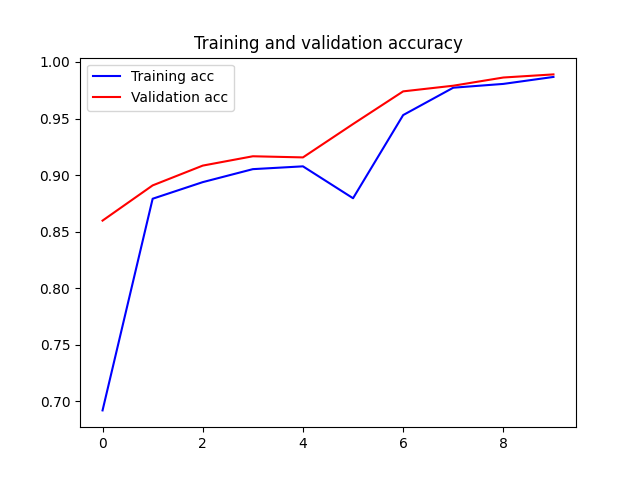
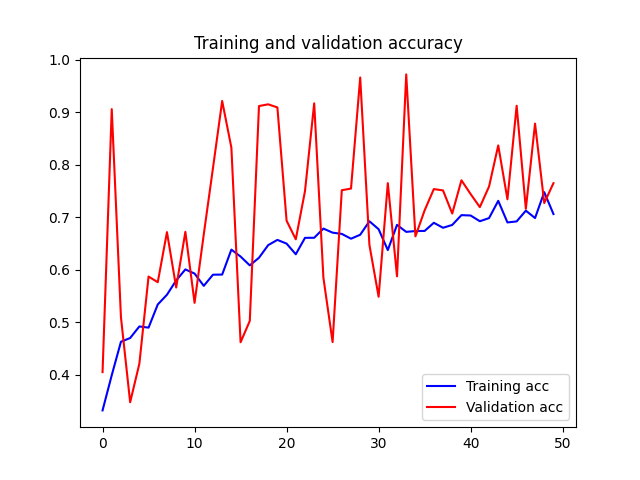
chore: 70% accuracy with adam

diff --git a/DataGenerator.py b/DataGenerator.py
@@ -43,17 +43,20 @@ class MobiFallGenerator(keras.callbacks.Callback):
         self.istrain = istrain
         self.ratio = ratio
         self._train_for = train_for
-        self._target_subject_id = '1'
+        self._target_subject_id = '2'
         self.batch_size = batch_size
 
         if self._train_for == 'acc':
             self._all_data = pd.DataFrame(columns=self.acc_columns)
+            self._test_data = pd.DataFrame(columns=self.acc_columns)
             self.columns = self.acc_columns
         elif self._train_for == 'ori':
             self._all_data = pd.DataFrame(columns=self.ori_columns)
+            self._test_data = pd.DataFrame(columns=self.ori_columns)
             self.columns = self.ori_columns
         elif self._train_for == 'gyro':
             self._all_data = pd.DataFrame(columns=self.gyro_columns)
+            self._test_data = pd.DataFrame(columns=self.gyro_columns)
             self.columns = self.gyro_columns
 
         self.cols_to_train = [column for column in self.columns if column not in self.common_cols]
@@ -73,6 +76,8 @@ class MobiFallGenerator(keras.callbacks.Callback):
             elif SENSOR_CODE == 'gyro' and self._train_for == 'gyro':
                 self.feed_csv(self.gyro_columns, file, ADL, SUBJECT_ID, TRIAL_NO)
 
+        print('DATA LOADED !!')
+
     def label_to_numeric(self, activity):
         return self.label_map[activity]
 
@@ -81,14 +86,20 @@ class MobiFallGenerator(keras.callbacks.Callback):
         df['activity'] = ADL
         df['subject_id'] = SUBJECT_ID
         df['trial_id'] = TRIAL_NO.split('.')[0]
+        # train test split based on ratio
 
-        self._all_data = self._all_data.append(df, ignore_index=True, sort=True)
+        trainig_upto = int(df.shape[0] * (1 - self.ratio)) - 1
+        self._all_data = self._all_data.append(df.iloc[0:trainig_upto], ignore_index=True, sort=True)
+        testing_from = (df.shape[0] - int(df.shape[0] * self.ratio) - 1)
+        self._test_data = self._test_data.append(df.iloc[testing_from:df.shape[0]], ignore_index=True, sort=True)
 
     def get_data_files(self):
         return self._datafiles
 
     def prepare_data(self, activities, main_df, batchsize):
-        target_activity = activities[random.randint(0, len(activities) - 1)]
+        # target_activity = activities[random.randint(0, len(activities) - 1)]
+        # print(' ACTIVITIES {}'.format(str(main_df['activity'].unique())))
+
         target_df = main_df
         # target_df = main_df[main_df['activity'] == target_activity]
         target_df['activity'] = target_df['activity'].apply(lambda activity: self.label_to_numeric(activity))
@@ -113,14 +124,13 @@ class MobiFallGenerator(keras.callbacks.Callback):
 
             if i == data_size:
                 break
-
             train_x.append(target_df.iloc[start_pos[i]:start_pos[i] + self._extract_data_size, col_indexes].values)
 
-            #get max vote for this region of timestamp
+            # get max vote for this region of timestamp
             labels = target_df.iloc[start_pos[i]:start_pos[i] + self._extract_data_size,
-                           target_df.columns.get_loc('activity')].values
+                     target_df.columns.get_loc('activity')].values
             labels = sorted(labels, key=list(labels).count)
-            train_y.append(to_categorical(labels[-1],num_classes=self.get_total_categories()))
+            train_y.append(to_categorical(labels[-1], num_classes=self.get_total_categories()))
 
         while len(train_y) < batchsize:
 
@@ -144,17 +154,16 @@ class MobiFallGenerator(keras.callbacks.Callback):
         # keep in mind that whatever timestamps you pass in one bundle of x
         # the target label for that timestamps should be same
 
+        print(" WE ARE TRAINING FOR SUBJECT ID  {} WITH BATCH_SIZE {}".format(self._target_subject_id, batchsize))
+
+
         # there is 500 timestasmps minumum for each activity
-
-        target_df = self._all_data[(self._all_data['subject_id'] == self._target_subject_id)].sort_values(
-            by=['timestamp', 'subject_id', 'trial_id'], ascending=[True, True, True])
-
-        # train test split based on ratio
         if isTrain:
-            target_df = target_df.iloc[0:int(target_df.shape[0] * (1 - self.ratio)) - 1]
+            target_df = self._all_data[(self._all_data['subject_id'] == self._target_subject_id)].sort_values(
+                by=['timestamp', 'subject_id', 'trial_id'], ascending=[True, True, True])
         else:
-            target_df = target_df.iloc[
-                        (target_df.shape[0] - int(target_df.shape[0] * self.ratio) - 1):target_df.shape[0]]
+            target_df = self._test_data[(self._test_data['subject_id'] == self._target_subject_id)].sort_values(
+                by=['timestamp', 'subject_id', 'trial_id'], ascending=[True, True, True])
 
         # print(target_df.head())
         # print(self.cols_to_train)
@@ -192,7 +201,7 @@ class MobiFallGenerator(keras.callbacks.Callback):
 
     def next_val(self):
         while 1:
-            ret = self.get_batch(self.batch_size, True)
+            ret = self.get_batch(self.batch_size, False)
             yield ret
 
     def get_test_data(self, subject_id=None, batchsize=30):
@@ -245,44 +254,52 @@ class MobiFallGenerator(keras.callbacks.Callback):
 
         return train_x, train_y
 
-    def on_epoch_begin(self, epoch, logs={}):
-        # pass all the subjects one by with all the activities one by one
-        if epoch < 5:
-            self._target_subject_id = '2'
-        elif 5 <= epoch < 10:
-            self._target_subject_id = '1'
-        elif 10 <= epoch < 15:
-            self._target_subject_id = '3'
-        elif 15 <= epoch < 20:
-            self._target_subject_id = '4'
-        elif 20 <= epoch < 25:
-            self._target_subject_id = '5'
-        elif 25 <= epoch < 35:
-            self._target_subject_id = '6'
-        elif 35 <= epoch < 40:
-            self._target_subject_id = '7'
-        elif 40 <= epoch < 42:
-            self._target_subject_id = '7'
-        elif 42 <= epoch < 45:
-            self._target_subject_id = '9'
-        elif 45 <= epoch < 47:
-            self._target_subject_id = '10'
-        elif 47 <= epoch < 50:
-            self._target_subject_id = '11'
-        elif 50 <= epoch < 52:
-            self._target_subject_id = '12'
-        elif 52 <= epoch < 54:
-            self._target_subject_id = '13'
-        elif 54 <= epoch < 60:
-            self._target_subject_id = '14'
-        elif 60 <= epoch < 62:
-            self._target_subject_id = '15'
-        elif 62 <= epoch < 64:
-            self._target_subject_id = '16'
-        elif epoch >= 64:
-            self._target_subject_id = str(self.subjects[random.randint(0, len(self.subjects) - 1)])
 
-        print("WE ARE TRAINING FOR SUBJECT ID = {}".format(self._target_subject_id))
+
+    def on_batch_begin(self, batch, logs=None):
+
+        self._target_subject_id = str(self.subjects[random.randint(0, len(self.subjects) - 1)])
+
+        # # pass all the subjects one by with all the activities one by one
+        # if epoch < 3:
+        #     self._target_subject_id = '2'
+        # elif 3 <= epoch < 5:
+        #     self._target_subject_id = '1'
+        # elif 5 <= epoch < 7:
+        #     self._target_subject_id = '3'
+        # elif 7 <= epoch < 9:
+        #     self._target_subject_id = '4'
+        # elif 9 <= epoch < 11:
+        #     self._target_subject_id = '5'
+        # elif 11 <= epoch < 13:
+        #     self._target_subject_id = '6'
+        # elif 13 <= epoch < 15:
+        #     self._target_subject_id = '7'
+        # elif 15 <= epoch < 17:
+        #     self._target_subject_id = '9'
+        # elif 17 <= epoch < 19:
+        #     self._target_subject_id = '10'
+        # elif 19 <= epoch < 50:
+        #     self._target_subject_id = str(self.subjects[random.randint(0, len(self.subjects) - 1)])
+
+        # elif 50 <= epoch < 52:
+        #     self._target_subject_id = '12'
+        # elif 52 <= epoch < 54:
+        #     self._target_subject_id = '13'
+        # elif 54 <= epoch < 60:
+        #     self._target_subject_id = '14'
+        # elif 60 <= epoch < 62:
+        #     self._target_subject_id = '15'
+        # elif 62 <= epoch < 64:
+        #     self._target_subject_id = '16'
+        # elif epoch >= 64:
+
+        print(" WE ARE TRAINING FOR SUBJECT ID = {}".format(self._target_subject_id))
+
+        return super().on_batch_begin(batch, logs)
+
+    def on_epoch_begin(self, epoch, logs={}):
+        print('')
 
     def get_observations_per_epoch(self):
         return self._extract_data_size

diff --git a/train.py b/train.py
@@ -12,7 +12,7 @@ n_timestamps = 30
 
 # train the network
 steps_per_epoch = 50
-epochs = 10
+epochs = 50
 batchsize = steps_per_epoch * epochs
 
 generator = MobiFallGenerator('./dataset/*/*/*/*/*.txt',
